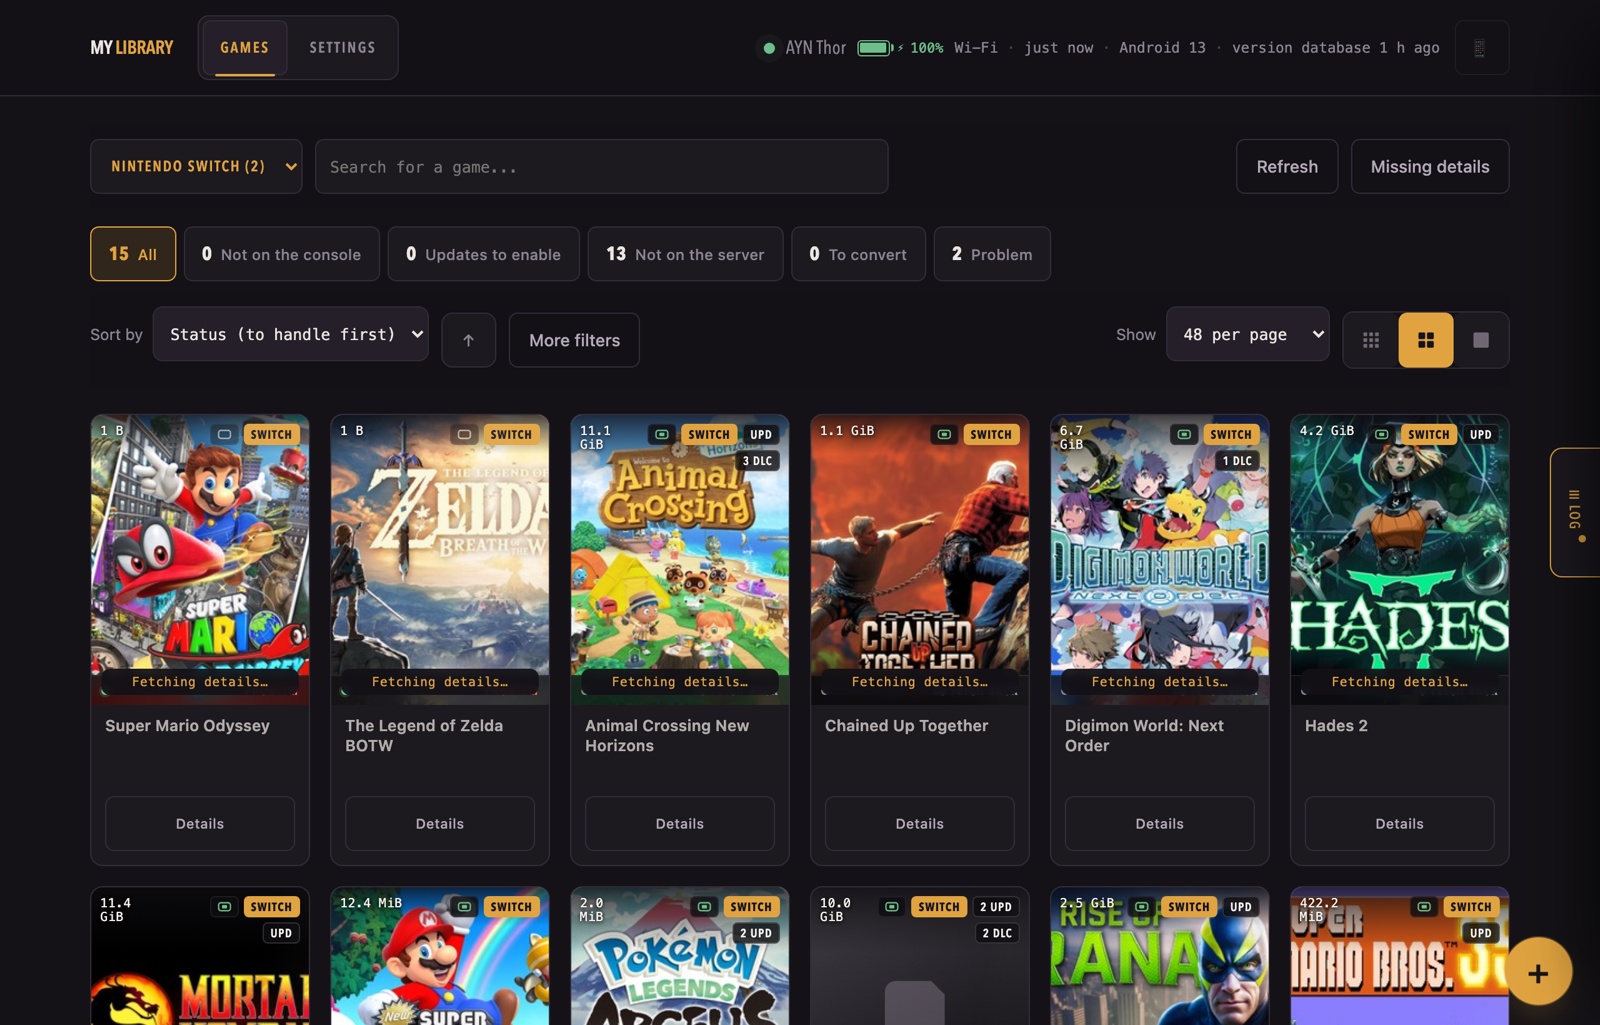
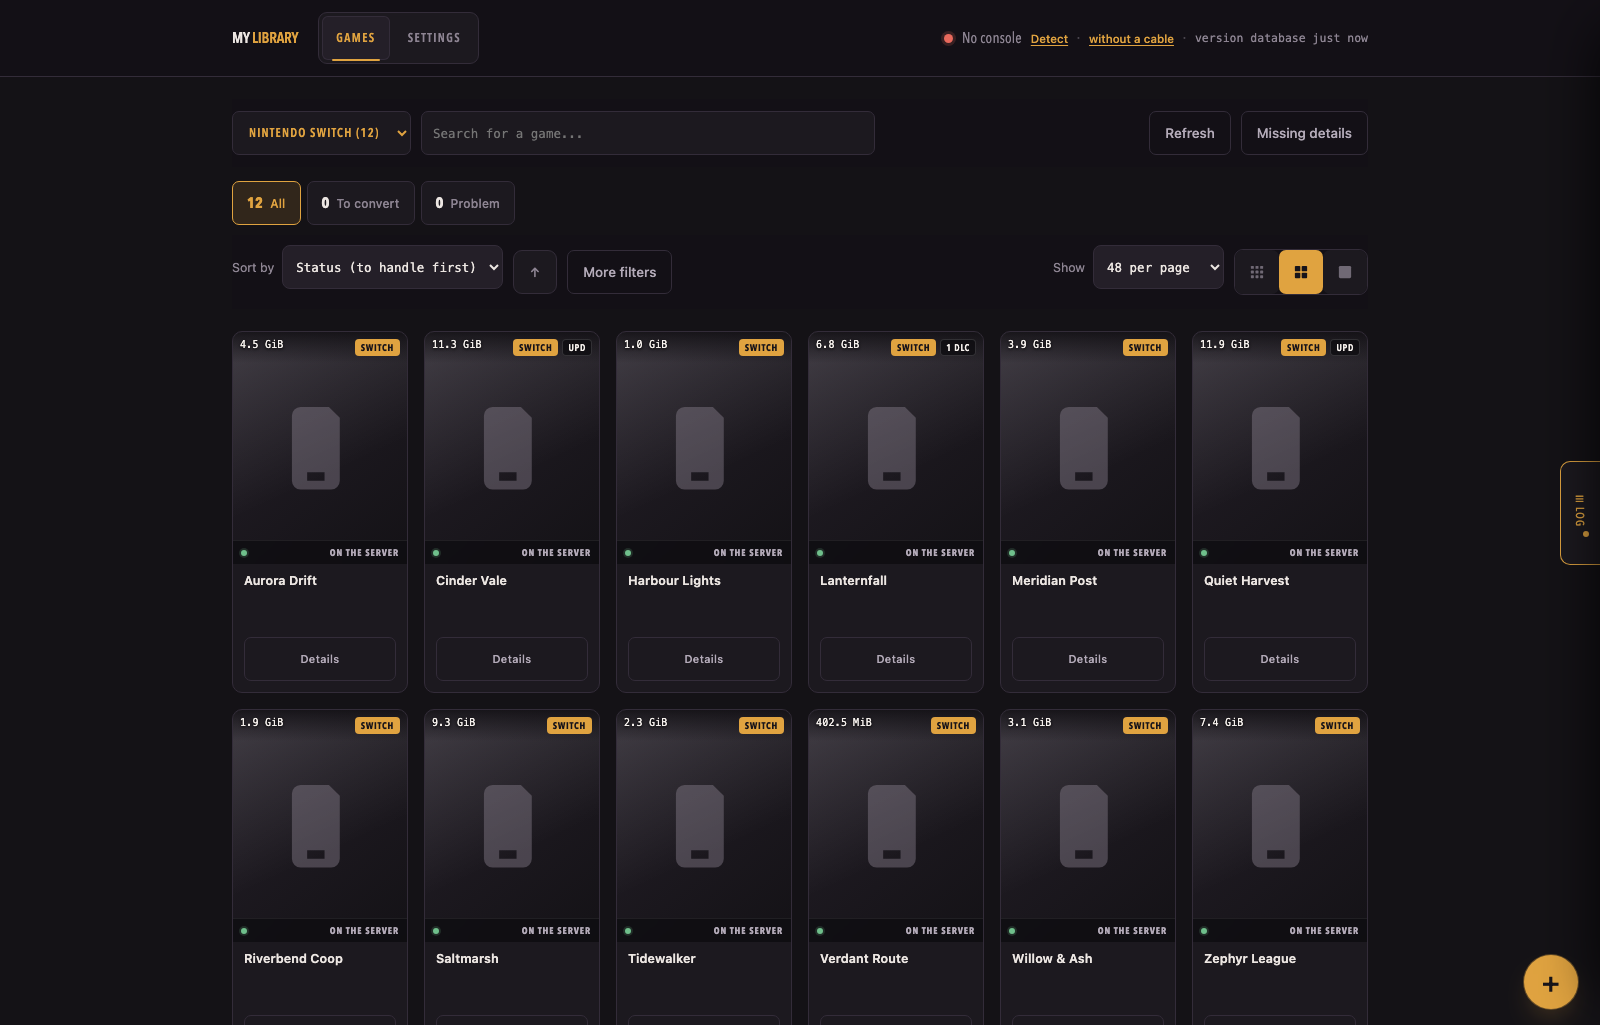
Audit de publication : la capture montrait la ludotheque de l'auteur
Verification demandee avant passage en public. Le depot est sain sur
l'essentiel : aucun secret, aucune chaine a forte entropie, aucune adresse
reelle — les IP presentes sont des exemples de documentation, et la vraie
adresse de la console n'apparait nulle part. Aucune source de ROM, aucun lien,
aucune indication pour obtenir des cles. Quatre endroits disent deja que les
jeux appartiennent a l'utilisateur.

Trois choses corrigees.

1. La capture du README montrait quinze titres Switch reels, leurs jaquettes
   d'editeur, leurs tailles et le nom de la console. C'est a la fois de
   l'illustration tierce redistribuee et l'inventaire de ce qu'une personne
   identifiable detient. Une capture doit montrer le LOGICIEL. Elle est
   engendree depuis une ludotheque synthetique : titres inventes, aucune
   jaquette tierce, aucune console. Au passage le fichier passe de 1,1 Mo a
   257 Ko.

2. Le texte juridique manquait la clause la plus banale : la mention des
   marques. Elle est ajoutee, avec deux precisions honnetes — Romule
   n'embarque aucun emulateur et n'en distribue aucun ; il ne fournit, ne
   produit et n'aide jamais a obtenir des cles de console, le dechiffrement
   etant delegue a un outil separe que l'utilisateur installe lui-meme. Il est
   aussi ecrit que dans certaines juridictions l'usage de telles cles peut
   etre restreint MEME pour un contenu qu'on possede. Le projet ne prend pas
   position la-dessus, et ne donne aucun conseil.
[…]

diff --git a/romule/static/app.js b/romule/static/app.js
@@ -1121,8 +1121,10 @@ function renderLib() {
 
   const lib = $('lib');
   if (!DATA.files.length && !tous.length) {
-    lib.innerHTML = '<div class="empty">Aucun fichier Switch dans ce dossier.<br>' +
-      'Dépose des jeux avec le bouton <b>+</b>, en bas à droite.</div>';
+    lib.innerHTML = '<div class="empty">' +
+      esc(t('Aucun fichier Switch dans ce dossier.')) + '<br>' +
+      phrase('Dépose des jeux avec le bouton %s, en bas à droite.', '+') +
+      '</div>';
     $('pager').innerHTML = ''; renderActionBar(); return;
   }
   if (!list.length) {
@@ -1734,7 +1736,7 @@ function openGameHtml(g) {
     envoyer:  ['conv', phrase('%d fichier(s) à envoyer sur la console', e.aEnvoyer.length)],
     importer: ['conv', 'Sur la console seulement — à importer vers le serveur'],
     convert:  ['conv', 'À convertir avant envoi'],
-    probleme: ['orph', e.casses.length ? 'Fichier incomplet — à retélécharger'
+    probleme: ['orph', e.casses.length ? 'Fichier incomplet — à remplacer'
                                        : 'Le jeu de base est absent'],
     local:    ['dlc',  'Sur le serveur — branche la console pour en savoir plus'],
   };
@@ -2054,7 +2056,12 @@ function renderConn(d) {
   } else {
     el.className = 'conn off';
     el.innerHTML = '<span class="cdot off"></span>' +
-      '<span class="cnom">Aucune console</span>' +
+      // `cnom` porte le NOM de la console, une donnee : il est dans
+      // CLASSES_DONNEES pour n'etre jamais traduit. Le libelle « aucune
+      // console », lui, doit l'etre — et il portait la meme classe, donc il
+      // restait en francais dans une interface anglaise. Meme defaut que la
+      // classe `tid`, qui servait a la fois de marqueur et de style.
+      '<span class="cvide">Aucune console</span>' +
       '<span class="cfaits">' +
         '<button class="lien" onclick="app.detect()">Détecter</button><i>·</i>' +
         '<button class="lien" onclick="app.togglePair()">sans câble</button>' +
@@ -2078,15 +2085,17 @@ function renderBarreConsole(info) {
         ? '<button class="ghost" onclick="app.wifiSwitch()">Passer en Wi-Fi</button>'
         : '<button class="ghost" onclick="app.wifiForget()">Oublier ce lien</button>')
     : '<button class="go" onclick="app.detect()">Détecter la console</button>' +
-      '<button class="ghost" onclick="app.togglePair()">Connecter sans câble</button>';
+      '<button class="ghost" onclick="app.togglePair()">' +
+        esc(t('Connecter sans câble')) + '</button>';
 }
 
 function renderDeviceCard(info, volumes) {
   renderBarreConsole(info);
   const el = $('device');
   if (!info.connected) {
-    el.innerHTML = '<div class="empty">Aucune console prête.<br>' +
-      'Branche le handheld en USB, autorise le debogage, puis clique « Detecter ».</div>';
+    el.innerHTML = '<div class="empty">' + esc(t('Aucune console prête.')) + '<br>' +
+      esc(t('Branche la console en USB, autorise le débogage, puis clique sur « Détecter ».')) +
+      '</div>';
     return;
   }
   const vols = (volumes || []).map(v => {
@@ -2633,7 +2642,7 @@ function etatDuJeu(g, nmap) {
   }
   if (cassesBase.length) {
     etat = 'probleme';
-    raison = pretty(cassesBase[0].name) + ' est incomplet — à retélécharger';
+    raison = pretty(cassesBase[0].name) + ' est incomplet — à remplacer';
   } else if (!jouables.length) {
     etat = g.needsConvert ? 'convert' : 'probleme';
     if (etat === 'probleme') raison = 'Aucun fichier jouable (.nsp ou .xci)';
@@ -4090,7 +4099,9 @@ const app = {
     $('pairfound').innerHTML = found.length
       ? '<div class="card">' + found.map(a => '<div class="row"><span class="grow">' + esc(a) +
           '</span><button class="go" onclick="app.wifiConnect(\'' + jsq(a) + '\')">Connecter</button></div>').join('') + '</div>'
-      : '<div class="mono" style="margin-top:8px">Aucune console visible. Vérifie que le débogage sans fil est activé et que vous êtes sur le même réseau.</div>';
+      : '<div class="mono" style="margin-top:8px">' +
+        esc(t('Aucune console visible. Vérifie que le débogage sans fil est activé '
+              + 'et que la console est sur le même réseau.')) + '</div>';
   },
   async wifiConnect(addr) {
     say('Connexion…');
@@ -4340,7 +4351,7 @@ const app = {
   },
 
   async detect() {
-    say('Détection de la console...');
+    say(t('Détection de la console...'));
     const d = await api('/api/device');
     renderConn(d); this.refreshInstall();
     renderDeviceCard(d.info || {}, d.volumes || []);
@@ -4348,7 +4359,8 @@ const app = {
       annonce('Console détectée : ' + d.info.name, 'ok');
       await this.chargerConsole();
     } else {
-      annonce('Aucune console prête (' + (d.state || 'non connectée') + ').', 'warn');
+      // Assemblee, la phrase n'etait traduisible par aucun catalogue.
+      annonce(phrase('Aucune console prête (%s).', d.state || t('non connectée')), 'warn');
     }
   },
 
@@ -5286,7 +5298,7 @@ function renderManifest(r) {
     const items = groups[folder].map(it => {
       if (it.broken) return '<div class="mfitem bad"><span>&#9888; ' + esc(it.name) +
         '<br><span class="mono">fichier incomplet : ' + esc(it.broken) +
-        ' — à retélécharger</span></span><span>non envoyé</span></div>';
+        ' — à remplacer</span></span><span>non envoyé</span></div>';
       return '<div class="mfitem"><span>' + (it.skip ? '&check; ' : '') + esc(it.name) + '</span><span>' +
         (it.skip ? 'déjà sur la console' : fmt(it.size)) + '</span></div>';
     }).join('');

diff --git a/romule/static/app.css b/romule/static/app.css
@@ -925,9 +925,9 @@ button .tid{color:inherit;opacity:.72;font-weight:400}
 .conn{position:sticky;top:57px;z-index:19;display:flex;align-items:center;gap:12px;
   flex-wrap:wrap;max-width:1180px;margin:0 auto;padding:10px 22px;
   border-bottom:1px solid var(--rule);background:var(--bg)}
-.conn .cnom{font-family:var(--disp);font-size:16px;letter-spacing:.2px}
+.conn .cnom,.conn .cvide{font-family:var(--disp);font-size:16px;letter-spacing:.2px}
 .conn .clien{color:var(--mute);font-size:12.5px}
-.conn.off .cnom{color:var(--mute)}
+.conn.off .cnom,.conn.off .cvide{color:var(--mute)}
 @media(max-width:720px){
   .conn{top:0;position:static;padding:9px 14px;gap:8px}
   .conn .clien{width:100%;order:9}
@@ -990,7 +990,7 @@ body.sansdefilement{overflow:hidden}
   .actionbar{padding:8px 12px;gap:8px}
   .fab{width:44px;height:44px;font-size:24px}
   .conn{padding:7px 14px}
-  .conn .cnom{font-size:14px}
+  .conn .cnom,.conn .cvide{font-size:14px}
 }
 @media(max-width:520px){
   .jfab .jfab-lbl{display:none}
@@ -1156,9 +1156,9 @@ body.sansdefilement{overflow:hidden}
 .status{display:flex;align-items:center;gap:12px;min-width:0}
 .conn{display:flex;align-items:center;gap:9px;min-width:0;
   position:static;padding:0;margin:0;border:0;background:transparent}
-.conn .cnom{font-family:var(--disp);font-size:15px;letter-spacing:.2px;
+.conn .cnom,.conn .cvide{font-family:var(--disp);font-size:15px;letter-spacing:.2px;
   white-space:nowrap;overflow:hidden;text-overflow:ellipsis}
-.conn.off .cnom{color:var(--mute)}
+.conn.off .cnom,.conn.off .cvide{color:var(--mute)}
 .conn .cfaits{display:flex;align-items:center;gap:7px;flex-wrap:wrap;
   font-size:11.5px;color:var(--mute);min-width:0}
 .conn .cfaits i{font-style:normal;opacity:.45}

diff --git a/romule/static/index.html b/romule/static/index.html
@@ -452,7 +452,7 @@
       <div class="setgroup groupe-plateforme" data-plateforme="switch">
         <div class="setgt">Sauvegardes de jeu <span class="portee">Switch</span></div>
         <p class="lead" style="margin:0 0 10px">Tes progressions sont irremplaçables :
-          un jeu se re-télécharge, pas 200 h de partie. Chaque sauvegarde est datée,
+          un jeu se réinstalle, pas 200 h de partie. Chaque sauvegarde est datée,
           rien n'est jamais écrasé.</p>
         <div class="bar">
           <button class="go" onclick="app.backupSaves()">Sauvegarder maintenant</button>

diff --git a/CHANGELOG.md b/CHANGELOG.md
@@ -32,6 +32,22 @@ change it. Breaking changes are always listed under **Changed** with the reason.
 - The Docker image now exposes `/data` (named volume) alongside `/library`, so
   Romule's own state is no longer written among your games.
 
+### Changed
+
+- **The README screenshot was the author's own library** — fifteen real Switch
+  titles, their publisher cover art, their file sizes and the console's name.
+  A screenshot should show the software. It is now generated from a synthetic
+  library: invented titles, no third-party artwork, no console.
+- The legal section now states plainly that Romule bundles no emulator, never
+  ships or helps obtain console keys, and that decryption is delegated to a
+  separate tool you install yourself. It also carries the trademark notice that
+  was missing: every console, publisher and emulator name belongs to its owner,
+  and Romule is affiliated with none of them.
+- Wording that implied games are obtained by download — "a game can be
+  downloaded again", "incomplete file — download it again" — now says
+  "reinstalled" and "replace it". Romule takes no position on where your files
+  came from, and its interface should not either.
+
 ### Security
 
 - **Stored XSS through filenames.** Values interpolated into inline event
@@ -52,6 +68,13 @@ change it. Breaking changes are always listed under **Changed** with the reason.
 
 ### Fixed
 
+- **Five strings stayed in French in an English interface**, all on the path a
+  brand-new user takes: the "no console" header, its two hints, the empty
+  library, and the state shown on **every** card when no console is connected.
+  They were never caught because the test machine always had a console
+  attached, so those branches never rendered. One was the same structural
+  fault as an earlier one: the `cnom` class marked "never translate" because it
+  carries the console's name, reused for a literal label that must be.
 - **The service died at startup on an unwritable data folder**, on a raw
   traceback from `mkdir`. That is the most common containerised deployment
   mistake — a host folder bind-mounted into the container belongs to the host

diff --git a/README.md b/README.md
@@ -20,7 +20,8 @@
 
 <p align="center">
   <img src="docs/images/bibliotheque.png" alt="The Romule library view: a grid of
-  game covers with size, platform and update badges, and filters above."
+  game cards with size, platform and update badges, and filters above. The
+  library shown is synthetic — invented titles, no real cover art."
   width="900">
 </p>
 
@@ -214,6 +215,31 @@ files that are already on your disk.
 Whether you may legally hold those files depends on where you live and how you
 obtained them. That question is yours, not this project's. Please do not open
 issues asking where to find games or keys; they will be closed.
+
+### Console keys
+
+Romule never ships, generates, or helps you obtain console keys. Decrypting
+`.nsz` / `.xcz` is delegated to [`nsz`](https://github.com/nicoboss/nsz), a
+separate tool you install yourself and point at a key file you supply. Romule
+works without any of it — keys are needed only for those two formats.
+
+Be aware that in some jurisdictions, extracting or using such keys may be
+restricted **even for content you own**. Romule takes no position on that and
+gives no guidance on it.
+
+### Emulators
+
+Romule bundles no emulator and distributes none. An emulator *profile* is
+nothing more than a description of where a given third-party program keeps its
+files, so that Romule can copy games to the right place. Naming a program is
+not an endorsement, a partnership, or a claim that anyone authorised it.
+
+### Trademarks
+
+Nintendo Switch, and the names of every console, publisher and emulator
+mentioned here, are trademarks of their respective owners. Romule is an
+independent project, not affiliated with, endorsed by, or connected to any of
+them. Those names are used only to say what the software works with.
 
 ---
 

diff --git a/docs/index.md b/docs/index.md
@@ -25,8 +25,9 @@ over adb.
 
 ## What Romule is not
 
-It ships **no games, no console keys, and no links to either**. It manages
-files already on your disk. Whether you may legally hold them depends on where
+It ships **no games, no console keys, and no links to either**, and it bundles
+no emulator. It manages files already on your disk. Whether you may legally
+hold them depends on where
 you live and how you got them — that question is yours, not this project's.
 
 ## Written with an AI assistant
@@ -37,3 +38,10 @@ their head. What holds it up is the checks — five test suites across four
 Python versions, a security audit, CodeQL on both languages, a container scan —
 not the author's memory of every line. Expect the plausible-but-wrong over the
 typo. Bug reports are especially useful here.
+
+!!! info "Trademarks"
+    Nintendo Switch, and the names of every console, publisher and emulator
+    mentioned in this documentation, are trademarks of their respective
+    owners. Romule is an independent project, not affiliated with, endorsed by,
+    or connected to any of them. Those names are used only to say what the
+    software works with. See [Legal](https://github.com/romule-app/romule#legal).
